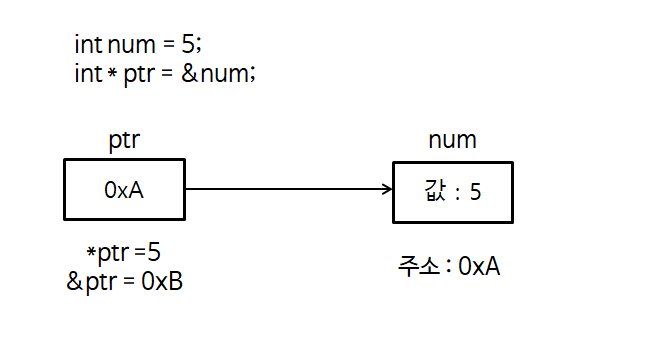
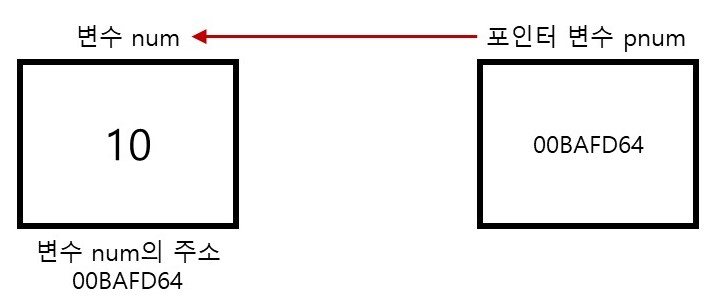
point

Changed region(s): [[0.0, 0.0877, 0.9922, 0.9351]]

diff --git a/_posts/2024-12-02-C언어 (9) 포인터.md b/_posts/2024-12-02-C언어 (9) 포인터.md
@@ -24,204 +24,187 @@ tags:
 ## 포인터
 ![image](/assets/img/C_lang/9_1.PNG)
 
-배열 설명과 똑같이 시작을 하자.<br>
+변수 설명과 똑같이 시작을 하자.<br>
 변수란 우리가 프로그램을 작성할 때 숫자나 문자 같은 데이터를 저장하기 위한 공간이다.<br>
 변수는 저장되는 주소가 있고, 공간이 있다.<br>
-그렇다면 이 주소는 어디에, 어떻게 저장될까? 그리고 어떻게 주소에서 값을 가져올 수 있을까?<br>
+그렇다면 이 주소도 이용할 수 있을까??<br>
 이 문제를 위해 포인터 변수가 존재한다. 포인터 변수란 주소를 저장하는 변수이다.<br>
 
+그림처럼 변수 num이 있고, num의 주소가 00BAFD64라고 하자.<br>
+num = 10이라는 명령은 주소 00BAFD64부터 4바이트의 값을 10으로 바꾸는 것이다.<br>
+여기서 pnum이라는 포인터 변수는 num의 주소인 00BAFD64를 저장한다. 코드로 더 봐보자.
+
 ```c
-int num = 5;
-int* ptr = &num;
+int num = 10;
+int* pnum = &num;
 ```
 
 scanf에서 언급했었는데 &연산자는 변수의 주소를 반환하는 연산자이다.<br>
-논리 연산자랑 달라
+그런데 &는 이전에 and라고 했었는데 지금은 주소를 반환하는 연산자라고 한다.<br>
+둘의 차이는 a & b 이렇게 두 개의 피연산자가 있으면 and의 의미이고, &num처럼 피연산자가<br>
+하나인 단항 연산자로 쓰이면 피연산자의 주소값을 가져오라는 뜻이 된다.<br>
 
-
-### 배열의 선언
+또 새로 나온 int* 라는것이 있다. 포인터 변수도 변수이기 때문에 먼저 선언을 해야한다.<br>
+변수를 선언할 때 앞에 자료형이 붙는데 자료형 다음에 \*을 붙이면 포인터형 자료형이다.<br>
+int형 변수의 주소를 저장하고 싶으면 int*, float형 변수의 주소를 저장하고 싶으면 float*<br>
+이렇게 저장하고 싶은 변수의 주소에 따라 포인터의 자료형이 변한다.<br>
+여담으로 int \*a와 int\* a는 같은 의미이다. \*을 어디에 붙여도 똑같다.
 ```c
 #include <stdio.h>
 int main() {
-    int ar[20];
-    return 0;
-}
+	int num = 10;
+	char c = 65;
+	double f = 12.3;
+
+	printf("num의 주소 : %p\n", &num);
+	printf("c의 주소 : %p\n", &c);
+	printf("f의 주소 : %p\n", &f);
+	printf("\n");
+	int *pnum = &num;
+	char* pc = &c;
+	double* pf = &f;
+
+	printf("pnum의 값 : %p\n", pnum);
+	printf("pc의 값 : %p\n", pc);
+	printf("pf의 값 : %p\n", pf);
+}	
 ```
-변수의 선언과 비슷하다. 자료형, 배열의 이름이 있고 배열의 길이가 추가된다.<br>
-char, int, double 등 원하는 자료형으로 배열을 만들 수 있다.<br>
+![image](/assets/img/C_lang/9_2.PNG) <br>
+이렇게 값을 확인해보면 포인터형 변수에 변수들의 주소값이 똑같이 들어간다는 것을 알 수 있다.<br>
+위의 코드를 실행할 때마다 주소의 값은 바뀌지만 크기는 16글자로 같을 것이다.<br>
+이는 현재 컴퓨터 시스템이 64비트 체제이기 때문으로, 64비트 시스템에서는 8바이트의 메모리 주소를 가진다.<br>
+16진수 2글자가 1바이트 (16*16 = 256) = (2^8bit)이므로 16글자인 것이다.<br>
+만약 32비트 운영체제를 사용하고 있다면 메모리 주소로 4바이트를 가지니까 8글자의 주소가 출력될 것이다.<br>
 
-이렇게 배열을 선언한 뒤 각각의 요소에 접근을 하려면 배열의 이름[원하는 인덱스]로 접근한다.<br>
-위에서 int ar[20]이라는 배열을 선언했으니 ar[0]=3, ar[1]=5, 이런 식으로 접근한다.<br>
-주의할 점은 배열의 시작 인덱스는 0번부터 시작하기에 n번째 요소에 접근하고 싶으면 ar[n-1]로 접근한다.<br>
-이렇게 ar[0]부터 ar[19]까지 20개의 배열 요소가 만들어졌다.<br>
-![image](/assets/img/C_lang/8_3.PNG)
-
-코드처럼 ar[2], ar[3]에는 정상적인 접근이 가능하지만 ar[20]은 범위를 초과하기에 오류가 발생한다.<br>
-
-### 배열의 초기화
-이제 배열을 선언해줬으니 초기화를 해주자.<br>
+### 포인터 변수 참조
+이렇게 주소 값을 가진 포인터 변수를 만들었으니, 주소를 통해 값을 참조할 수도 있다.<br>
+\* 연산자를 간접참조 연산자라고 부르고, &가 피연산자가 1개면 and가 아닌 것처럼 \*도 곱셈이 아니다.<br>
+\* 연산자는 주소를 통해 메모리 공간에 접근한다.<br>
 ```c
-#include <stdio.h>
+#include<stdio.h>
 int main() {
-    int ar[5];
-    ar[0] = 10;
-    ar[2] = 15;
-    ar[3] = 25;
+	int num = 10;
+	int* pnum = &num;
 
-    for (int i = 0; i < 5; i++) {
-        printf("%d번째 요소 : %d\n", i, ar[i]);
-    }
-    return 0;
-}
+	printf("%d %d", *(&num), *pnum);
+}	
 ```
-위에서 봤듯 변수에 값을 넣어주는 것처럼 배열 하나하나에 접근해 값을 넣을 수도 있다.<br>
-현재는 ar[0], ar[2], ar[3]에만 값을 넣어줬기에 ar[1], ar[4]에는 무슨 값이 있을까?<br>
-변수를 초기화하지 않고 선언만 했을 때와 똑같이 쓰레기 값이 들어있을 것이다.<br>
-
-배열은 중괄호를 이용해 쉽게 데이터를 초기화 할 수 있다.<br>
+```text
+10 10
+```
+라는 결과를 볼 수 있다. 주소를 통해 메모리 공간에 접근하기에 간접 접근이라는 표현을 사용한다.<br>
+num과 *(&num)과 *pnum은 같은 공간을 가리키고, 이것을 통해 값을 변경할 수도 있다.<br>
 ```c
-#include <stdio.h>
+#include<stdio.h>
 int main() {
-    int ar[5] = { 1,2,3,4,5 };
-    int arr[] = { 1,2,3,4,5 }; //같은 뜻
+	int num = 10;
+	int* pnum = &num;
 
-    ar = { 4,5,6,7,8 }; // 오류 발생
-    for (int i = 0; i < 5; i++) {
-        printf("%d번째 요소 : %d\n", i, ar[i]);
-    }
-    for (int i = 0; i < 5; i++) {
-        printf("%d번째 요소 : %d\n", i, arr[i]);
-    }
-    return 0;
-}
+	printf("%d\n", num);
+	*(&num) = 20;
+	printf("%d\n", num);
+	*pnum = 30;
+	printf("%d\n", num);
+}	
 ```
-int ar[5] = { 1,2,3,4,5 };은 각각의 원소 0,1,2,3,4번째에 1,2,3,4,5를 넣어준다.<br>
-또한 배열의 크기를 정해주지 않아도 중괄호를 통해 초기화해주면 중괄호 안의 원소 개수만큼 알아서 배열의 크기를 정해준다.<br>
-하지만 배열의 선언과 동시에 초기화해주는 것이 아니라 ar = { 4,5,6,7,8 }; 같이 따로하면 오류가 발생한다.<br>
-```c
-int ar[];
+이 코드를 실행해 보면
+```text
+10
+20
+30
 ```
-또한 배열의 크기를 정해주지 않고 선언만 하는 것은 불가능하다. <br>
-크기를 알아야 컴파일러가 메모리를 할당해주는데, 정보가 없으면 할당해줄 수 없기 때문이다.<br>
+로 *(&num) = 20;, *pnum = 30;을 통해서도 num이 바뀌는 것을 확인할 수 있다.<br>
+정리를 하면 포인터 변수 pnum에 num의 주소가 저장되니까 pnum은 num을 가리키는 것이다.<br>
+이 pnum에 \*연산자를 통해 참조하면 num에 접근하는 것과 같은 효과를 낼 수 있다.<br>
+
+### 포인터 변수의 크기
+이전에 변수를 배울 때 char은 1바이트, int는 4바이트, double은 8바이트의 크기를 할당받는다고 했다.<br>
+그런데 주소의 크기는 이런 자료형과는 관계 없이 64비트 시스템에선 8바이트, 32비트 시스템에선 4바이트다.<br>
+
 ```c
-#include <stdio.h>
+#include<stdio.h>
 int main() {
-    int ar[5] = { 1,2,3 };
-    for (int i = 0; i < 5; i++) {
-        printf("%d번째 요소 : %d\n", i, ar[i]);
-    }
-    return 0;
-}
+	int num = 10;
+	char c = 65;
+	double f = 12.3;
+
+	printf("num의 크기 : %d\n", sizeof(num));
+	printf("c의 크기 : %d\n", sizeof(c));
+	printf("f의 크기 : %d\n", sizeof(f));
+	printf("\n");
+
+	int* pnum = &num;
+	char* pc = &c;
+	double* pf = &f;
+
+	printf("pnum의 크기 : %d\n", sizeof(pnum));
+	printf("pc의 크기 : %d\n", sizeof(pc));
+	printf("pf의 크기 : %d\n", sizeof(pf));
+}	
 ```
-그러면 배열을 전부 채워주지 않고 앞의 3개만 채우면 어떻게 출력이 될까?<br>
-다행히 ar[0] = 1, ar[1] = 2, ar[2] = 3을 해주고 나머지 ar[3], ar[4]는 0을 알아서 넣어준다.<br>
+![image](/assets/img/C_lang/9_3.PNG)<br>
+
+여기서 생기는 의문이 왜 포인터형 변수에도 int*, char*처럼 자료형이 여러가지가 있느냐이다.<br>
+어차피 주소의 크기는 시스템에 따라 8바이트 또는 4바이트인데 이렇게 구별해야하는 이유가 있을까?<br>
+조금 더 생각을 해보자.
+
+만약 모든 포인터의 자료형이 pointer*로 통일된다고 가정해보자.<br>
+그 다음 \*로 참조해 값을 가져오려고 한다.<br>
 ```c
-#include <stdio.h>
+int num = 10;
+char c = 65;
+
+pointer* pnum = &num;
+pointer* pc = &c;
+
+*pnum;
+*pc
+```
+pnum에는 num의 주소, pc에는 c의 주소가 저장되어 있다.<br>
+그런데 메모리 공간에서 값을 가져오려면 주소로부터 얼마만큼 읽어야할지 알아야한다.<br>
+int면 4바이트, char이면 1바이트의 공간을 주소값에서부터 읽어야겠지만 pointer* 에는 그에 대한 정보가 없다.<br>
+그렇기 때문에 포인터 변수는 int*, char* 등의 자료형을 사용해 변수를 구별하고, 필요한 정보를 얻을 수 있다.
+
+### 포인터 사용 시 주의점
+변수를 선언하고 초기화하지 않는다면 그 변수에는 알 수 없는 값이 들어있다.<br>
+똑같이 포인터 변수를 선언하고 초기화하지 않아도 어떤 값은 들어있으나 무엇인지는 모른다.<br>
+
+```c
+#include<stdio.h>
 int main() {
-    int ar[5] = { };
-    for (int i = 0; i < 5; i++) {
-        printf("%d번째 요소 : %d\n", i, ar[i]);
-    }
-    return 0;
-}
+	int* pnum;
+
+	*pnum = 10;
+}	
 ```
+이렇게 초기화하지 않은 포인터 변수에 10을 넣으려고 하면 무슨 일이 벌어질까?<br>
+굉장히 위험한 코드로 만약 pnum이 중요한 영역을 가리키고 있었다면 그 영역이 10으로 덮인다.<br>
+그러면 예상치 못한 일이 일어날 것이다.<br>
+
 ```c
-#include <stdio.h>
+#include<stdio.h>
 int main() {
-    int ar[5];
-    for (int i = 0; i < 5; i++) {
-        printf("%d번째 요소 : %d\n", i, ar[i]);
-    }
-    return 0;
-}
+	int* pnum = 123456; //무작위 값
+
+	*pnum = 10;
+}	
 ```
-위의 코드는 초기화를 시도해 ar의 요소들을 0으로 초기화하지만<br>
-밑의 코드는 초기화 과정이 없기에 쓰레기 값이 출력된다.<br>
-2개는 크게 다르니 주의하자.<br>
+비슷하게 이런 코드도 위험할 것이다. 123456이라는 주소에 무슨 정보가 있는지 모르기 때문이다.<br>
+이런 것을 방지하기 위해 포인터 변수는 int* pnum = NULL 로 초기화할 수 있다.<br>
+NULL은 아무것도 없다는 뜻으로 0과 동일한 의미이다.<br>
 
-### 배열의 주소
-배열의 정의 중 연속된 메모리 공간으로 이루어졌다는 것은 무슨 의미일까?<br>
-![image](/assets/img/C_lang/8_2.PNG)
+또 조심해야 하는 것이 있다.<br>
+위에서 포인터 변수의 크기에 대해 이야기했는데, 만약 다른 자료형의 포인터를 쓰면 어떻게 될까?<br>
+포인터 변수는 주소에서 얼마만큼 읽어야할지 알기 위해 int*, double* 등으로 구분한다고 했다.<br>
 
-이렇게 char형 배열 char c[5]와 int형 배열 int a[3]이 있다고 하자.<br>
-연속된 메모리 공간으로 이루어져 있다는 것은 배열의 각 원소를 위한 공간이 연속된 주소에 할당된다는 것이다.<br>
-char c[5]배열의 시작 주소가 100이라고 하면, char형 변수의 크기는 1byte이므로 c[0]의 주소는 100, c[1]의 주소는 101..이다.<br>
-
-int a[3]의 배열의 시작 주소는 200이라고 하자. int형 변수의 크기는 4byte이다.<br>
-그러므로 200~203까지는 a[0]을 위해 할당, 204~207은 a[1]을 위해 할당된다.
-
-1. 배열의 0번째 인덱스의 주소는 배열의 시작 주소와 같다는 것<br> 
-2. 연속된 배열 요소의 주소값의 차이는 자료형의 크기와 같다는 것을 기억해두자.<br>
-
-### 다차원 배열
-그렇다면 배열의 배열을 만들 수 있을까?<br>
-![image](/assets/img/C_lang/8_4.PNG)
-
-int ar[100] 같은 배열을 1차원 배열이라고 생각하면 2차원, 3차원..n차원 배열을 만들 수 있다.<br>
-```c
-int ar_2[5][5] = {
-    {0, 1, 2, 3, 4},
-    {0, 1, 2, 3, 4},
-    {0, 1, 2, 3, 4},
-    {0, 1, 2, 3, 4},
-    {0, 1, 2, 3, 4},
-};
-int ar_3[5][5][5];
-```
-선언과 초기화 방법도 1차원 배열과 크게 다르지 않다.<br>
-참조 방법도 int ar_2[0][0] 부터 int ar_2[4][4]까지 접근할 수 있다.<br>
-```c
-int ar_2[5][5] = {
-    {0, 1, 2, 3, 4},
-    {0, 1, 2},
-    {0, 1, 2, 3, 4},
-    {0},
-    {0, 1, 2, 3, 4},
-};
-```
-이렇게도 2차원 배열을 초기화 할 수 있다.
-1차원 배열의 초기화와 똑같이 값이 없는 부분은 알아서 0으로 채워준다.<br>
-
-### 다차원 배열의 주소
-![image](/assets/img/C_lang/8_4.PNG)
-
-그림으로 다차원 배열을 이렇게 표현할 수 있다.<br>
-하지만 이는 이해하기 쉽게 만든 그림일 뿐 실제로 변수와 값이 컴퓨터에 이렇게 저장될 수는 없다.<br>
-학원에서 학생이 4차원이나 5차원 배열은 그릴 수 없는데 어떻게 값이 들어가냐고 물어본 적이 있어서..<br>
-실제로 값이 저장되는 컴퓨터의 메모리 공간은 입체적 공간이 아닌 선형 공간이다.<br>
-
-![image](/assets/img/C_lang/8_5.PNG)
-
-왼쪽은 1차원 배열이 저장되는 것이고, 오른쪽이 2차원 배열이다.<br>
-2차원 배열은 1차원 배열의 배열이니 1차원 배열이 여러개가 모인 것이라고 이해하면 쉽다.<br>
-arr2[0], arr2[1]은 1차원 배열이고 arr[0][0], arr[0][1]이 배열의 요소이다.<br>
-그렇기 때문에 arr2[2][3]은 arr2[0][0]부터 순서대로 arr[1][2]까지 메모리에 저장된다.<br>
-
-arr2[5][5]라는 배열이 있을 때 arr2[0][0]의 주소값과 arr2[2][4]의 주소값의 차이는 몇일까?<br>
-```c
-arr2[0][0], arr2[0][1], arr2[0][2], arr2[0][3], arr2[0][4],
-arr2[1][0], arr2[1][1], arr2[1][2], arr2[1][3], arr2[1][4],
-arr2[2][0], arr2[2][1], arr2[2][2], arr2[2][3], arr2[2][4],
-arr2[3][0], arr2[3][1], arr2[3][2], arr2[3][3], arr2[3][4],
-arr2[4][0], arr2[4][1], arr2[4][2], arr2[4][3], arr2[4][4]
-```
-배열을 보면 arr2[0][0]와 arr2[2][4]사이에는 14개의 int형 변수가 들어있다.<br>
-그렇기에 14x4 = 56의 주소값 차이가 있다.<br>
-다른 방법으로 생각하면 arr2[0]와 arr2[1]의 주소값 차이가 int(4byte) x 5 = 20이다.<br>
-arr2[1]과 arr2[2]의 차이도 20이고, arr2[2][0]과 arr2[2][4]의 차이는 4 x 4 = 16이다.<br>
-그러므로 20 + 20 + 16 = 56의 차이를 가지게 된다.<br>
-
-### 다차원 배열
-3차원 배열보다 더 큰 배열도 물론 만들 수 있다.<br>
-하지만 arr5[3][3][3][3][3] 과 같은 5차원 배열이 있다고 하면 각각의 인덱스를 쓰는 것 부터 헷갈릴 것이다.<br>
-그렇기에 3차원 이상의 다차원 배열은 잘 사용하지 않는다.<br>
-
-### 배열의 응용
-[백준 1차원 배열](https://www.acmicpc.net/step/6)<br>
-[백준 2차원 배열](https://www.acmicpc.net/step/2)<br>
-
-해당 사이트의 문제를 풀어보면 어떻게 배열을 쓸 수 있는지 볼 수 있다.<br>
+만약 int num이라는 변수를 char *pcnum = &num 또는 double *pdnum = &num로 이용하면 어떻게 될까?<br>
+![image](/assets/img/C_lang/9_4.PNG)<br>
+num의 값은 &num으로부터 4바이트에 저장되어 있다.<br>
+그런데 *pcnum은 &num을 기준으로 1바이트만 읽을 것이고, *pdnum은 &num을 기준으로 8바이트를 읽는다.<br>
+특히 *pdnum의 경우 num 변수 범위 밖까지 참조하므로 더 위험하다고 볼 수 있다.<br>
 
 ---
-배열이라는 새로운 자료구조를 알아보았다.<br>
-이제 C언어에서 가장 어려운 부분이라고 할 수 있는 포인터를 알아보자.<br>
+변수의 주소를 저장하는 포인터 변수에 대해서 처음 알아보았다.<br>
+아직까지 어려운 것은 크게 없는 것 같은데, 이걸 왜 쓰는거지 싶을 것이다.<br>
+어차피 num과 *pnum이 같다면 그냥 num만 쓰면 되는 것이 아닐까?라고 생각할 수 있다.<br>
+다음 글에서 포인터와 배열의 관계를 보며 사용하는 것을 더 자세히 알아보자.
